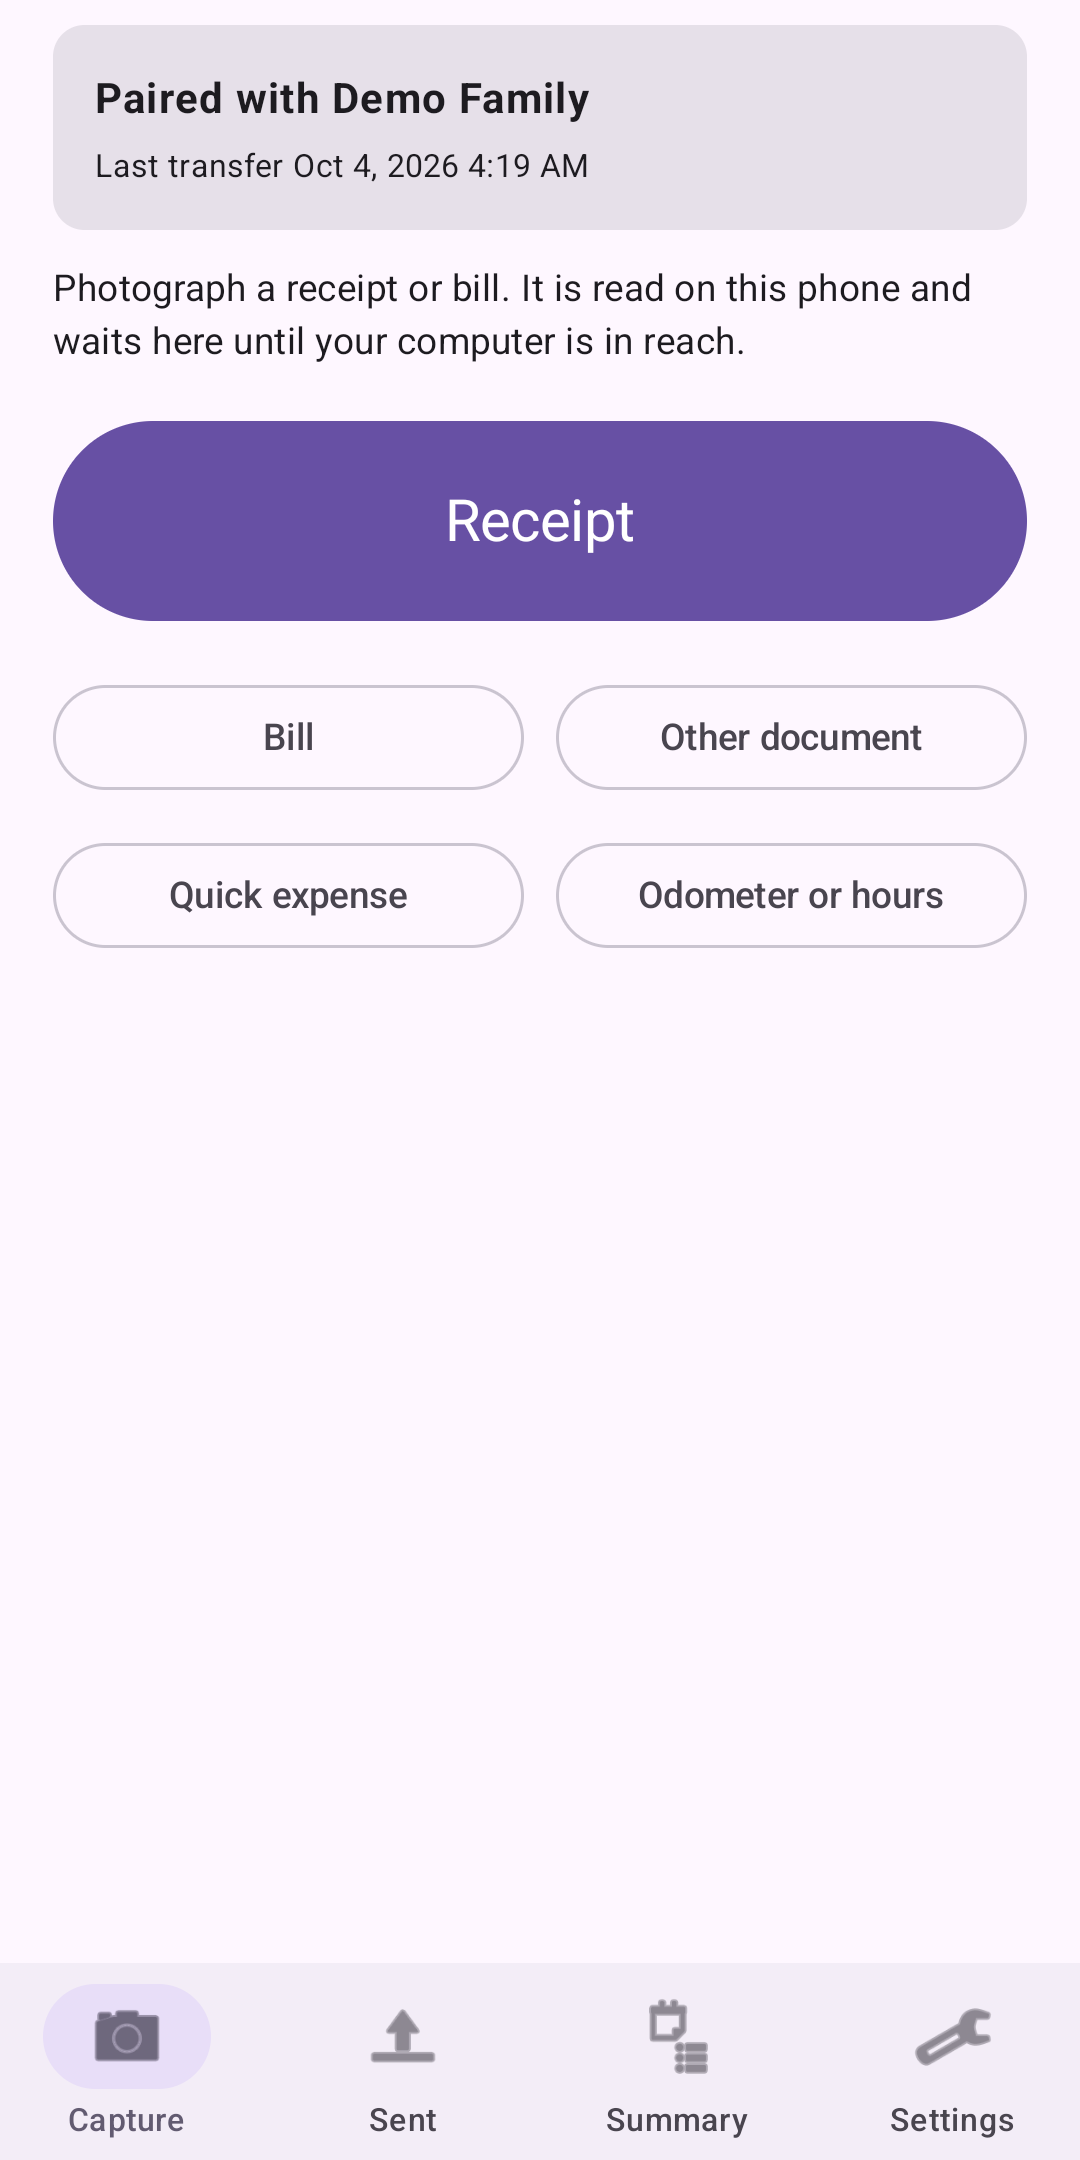
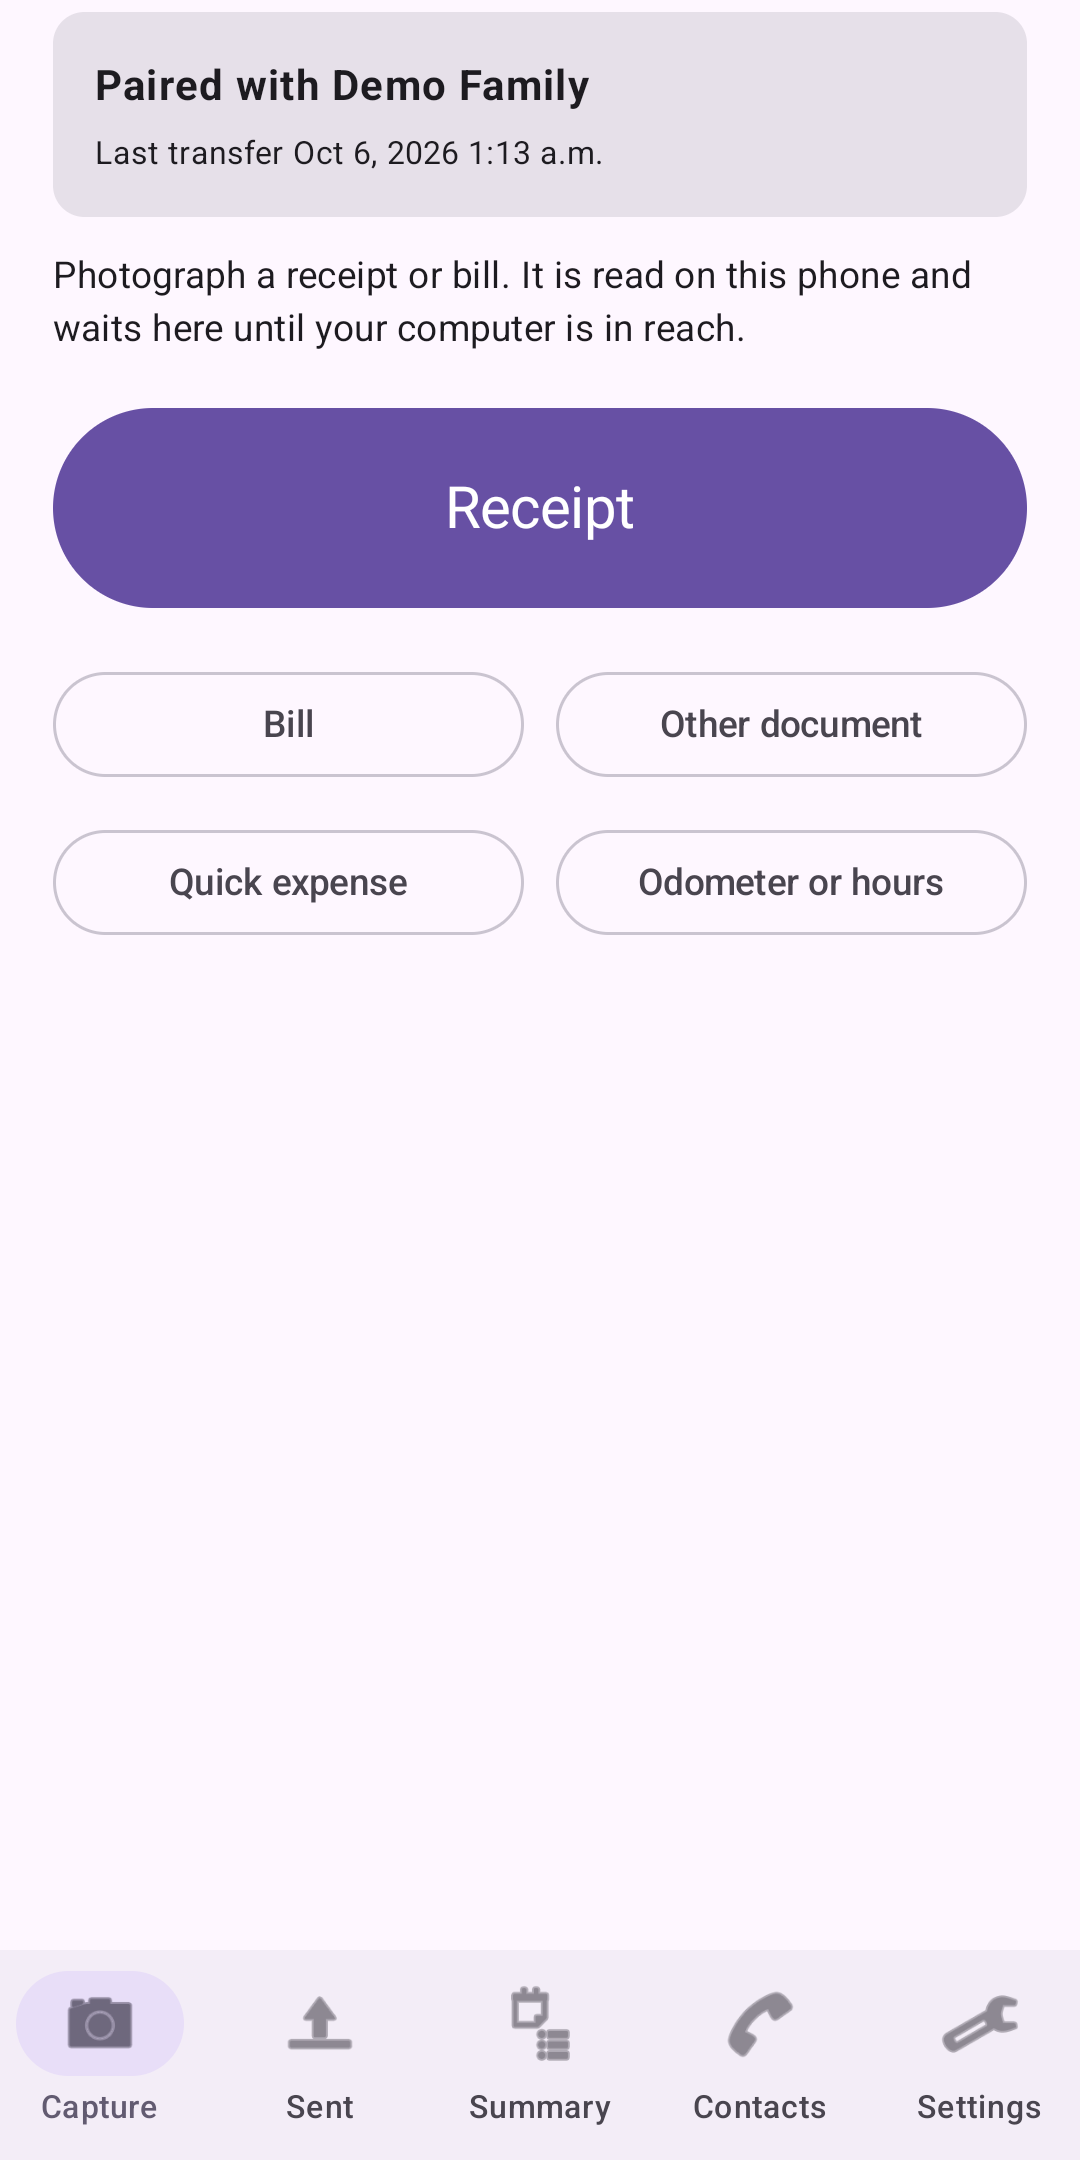
Pictures after merging main: phone store pictures, website pictures, retaken desktop pictures
The phone store pictures are retaken on the emulator with the current app, five per language:
capture, the summary, Coming up with medication refills, contacts and sent (1080 x 2160). The
rann.ca desktop pictures come from storeScreenshots -Pweb (dashboard, credit card register,
income and expense report), scaled to 1080 x 675, and the phone pictures from the new capture
screen. The manual's and the Microsoft Store's desktop pictures are retaken after merging main
(contacts, backups, the manual window and the portfolio report changed).

diff --git a/docs/store/google-play.md b/docs/store/google-play.md
@@ -7,7 +7,7 @@ build is the `play` flavour: no update check and no permission to install packag
 - Contact email: info-rann-apps@NorthMail.ca
 - Category: Finance. Price: free (decided in the SRS, 16.2).
 - App icon: `branding/store/play-icon-512.png`. Feature graphic: `branding/store/play-feature-1024x500.png`.
-- Phone screenshots: `docs/store/screenshots/phone-en/` and `phone-fr/` (1080 × 2160, within Play's 2:1 limit; capture, summary with Coming up, contacts, sent), taken on the emulator from the sample household (`tools/dev/README.md`).
+- Phone screenshots: `docs/store/screenshots/phone-en/` and `phone-fr/` (1080 × 2160, within Play's 2:1 limit; five per language: capture, summary, Coming up with refills, contacts, sent), taken on the emulator from the sample household (`tools/dev/README.md`).
 
 ## English (en-CA)
 
